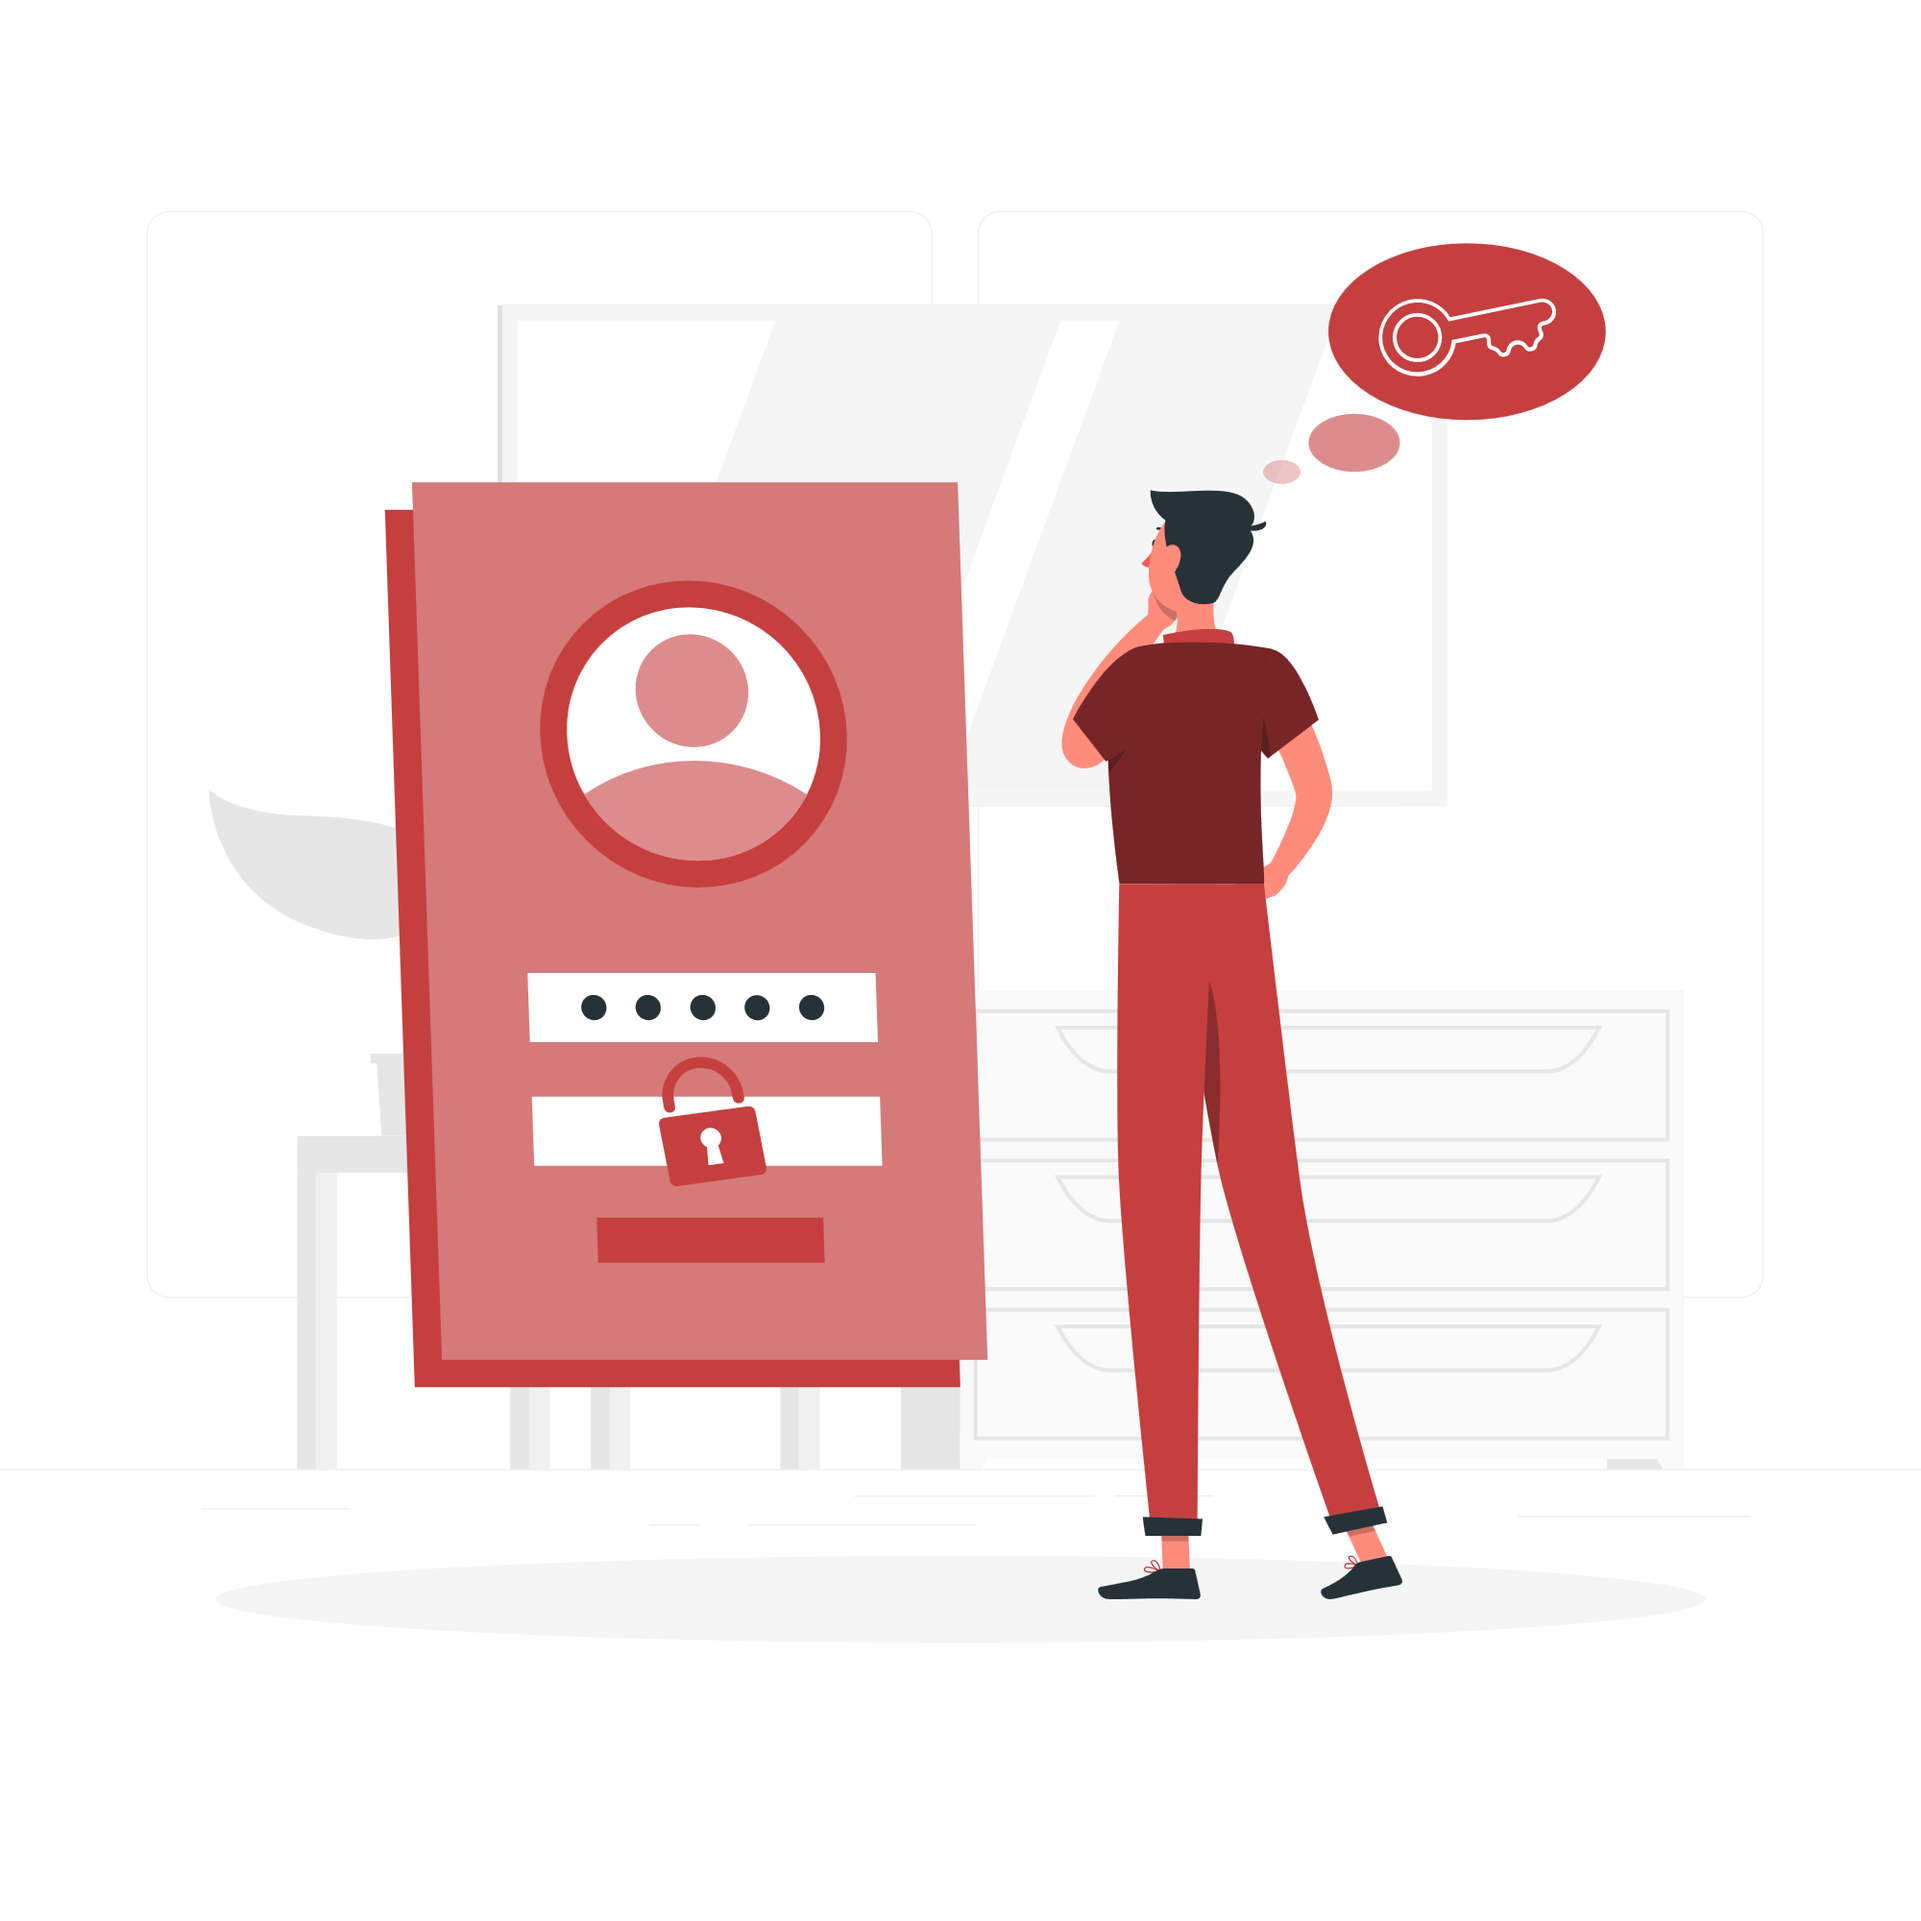
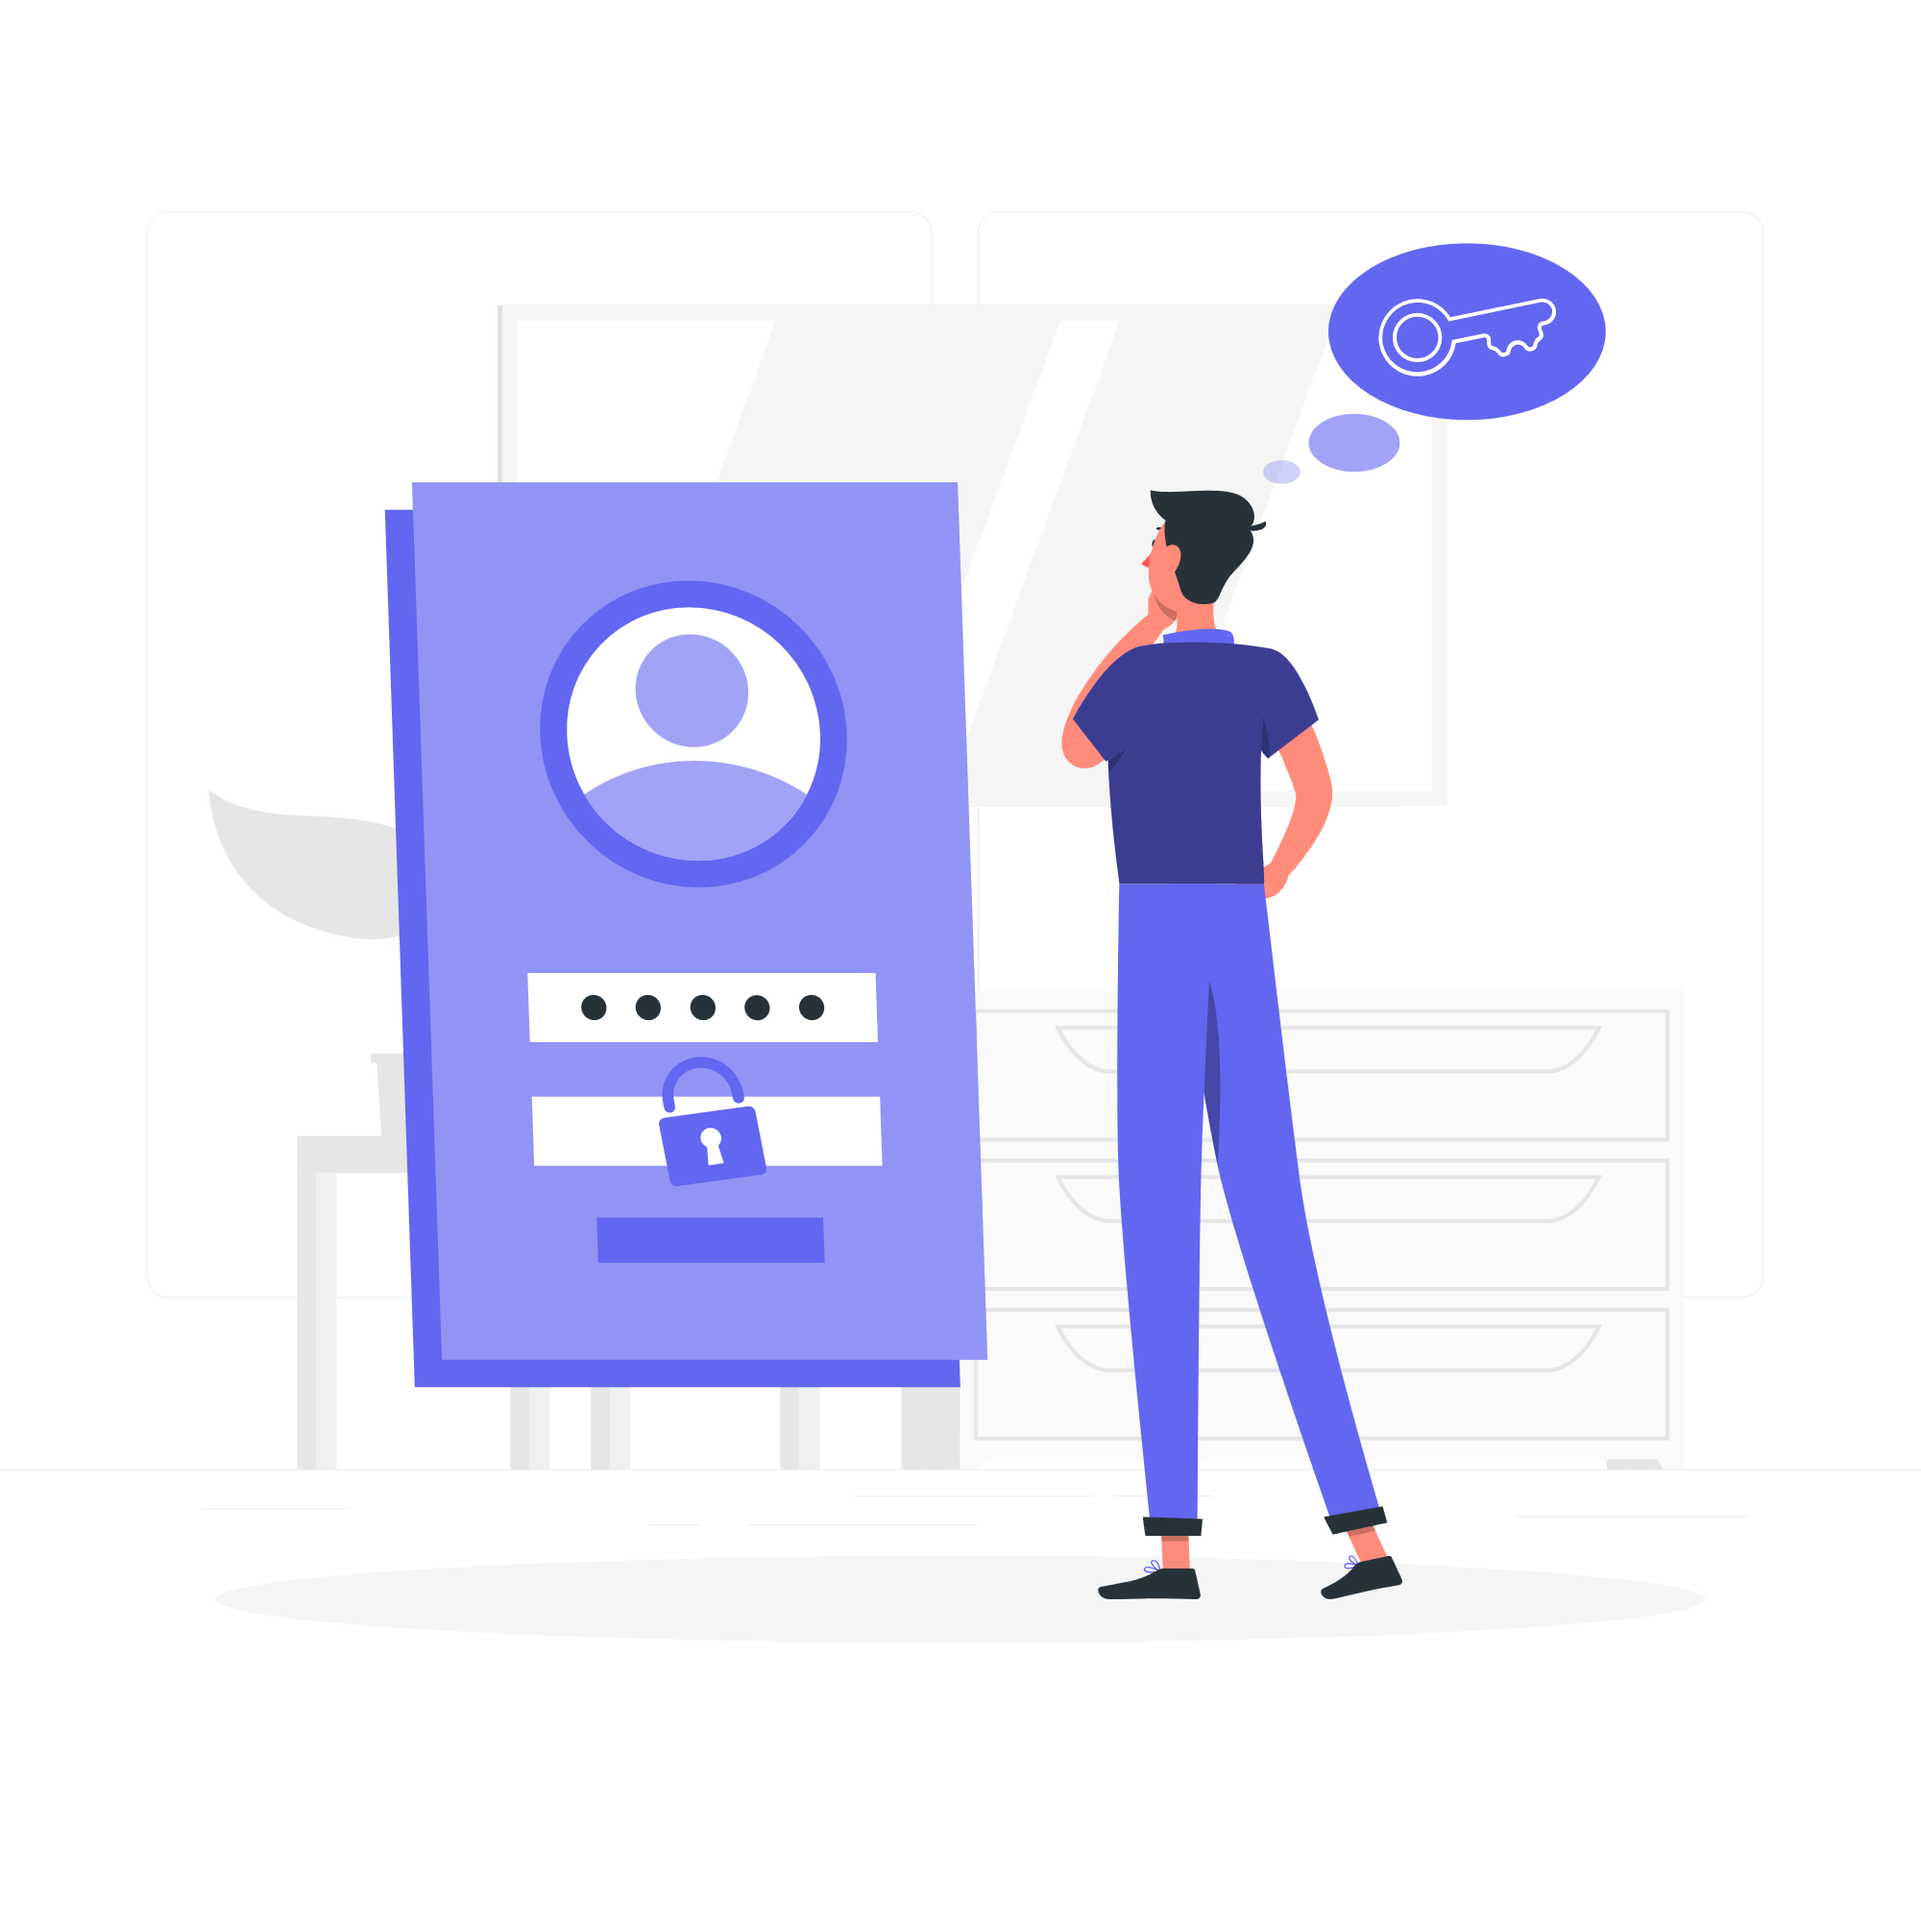
fix: change signup and signin page styles

Changed region(s): [[0.186, 0.248, 0.527, 0.744], [0.558, 0.31, 0.713, 0.806], [0.651, 0.124, 0.837, 0.248]]

diff --git a/src/components/module/SigninForm.jsx b/src/components/module/SigninForm.jsx
@@ -15,10 +15,10 @@ function SigninForm({
     <>
       <form
         onSubmit={handleSubmit}
-        className="w-full flex flex-col items-center justify-start gap-3"
+        className="w-full flex flex-col items-center justify-start gap-4"
       >
-        <div className="w-3/4 h-[38px] sm:h-[42px] px-4 py-2 rounded-lg bg-surface flex items-center justify-start gap-2 text-icon ">
-          <Mail />
+        <div className="w-3/4 h-[38px] sm:h-[42px] px-4 py-2 rounded-lg bg-white flex items-center justify-start gap-2 text-icon ">
+          <Mail className="text-primary" />
           <input
             type="email"
             name="email"
@@ -26,12 +26,12 @@ function SigninForm({
             onChange={handleChangeValue}
             placeholder="ایمیل"
             required
-            className="w-full"
+            className="w-full placeholder:text-icon"
           />
         </div>
 
-        <div className="w-3/4 h-[38px] sm:h-[42px] px-4 py-2 rounded-lg bg-surface flex items-center justify-start gap-2 text-icon">
-          <Lock />
+        <div className="w-3/4 h-[38px] sm:h-[42px] px-4 py-2 rounded-lg bg-white flex items-center justify-start gap-2 text-icon">
+          <Lock className="text-primary" />
           <input
             type={isShowPassword ? "text" : "password"}
             name="password"
@@ -39,7 +39,7 @@ function SigninForm({
             onChange={handleChangeValue}
             placeholder="رمز عبور"
             required
-            className="w-full"
+            className="w-full placeholder:text-icon"
           />
 
           {isShowPassword ? (

diff --git a/src/components/templates/SignupPage.jsx b/src/components/templates/SignupPage.jsx
@@ -61,16 +61,18 @@ function SignupPage() {
 
   return (
     <>
+      <div className="w-full h-full inset-0 absolute bg-primary/10 -z-10"></div>
+
       <div className="w-full max-w-2xl flex flex-col items-center justify-start gap-8 mx-auto p-2">
         <div className="w-full flex items-center justify-start">
           <span
             onClick={() => router.back()}
-            className="p-2 text-icon bg-surface rounded-lg cursor-pointer"
+            className="p-2 text-icon rounded-lg cursor-pointer"
           >
             <ArrowRight />
           </span>
         </div>
-        <p className="w-full text-center text-primary font-medium">
+        <p className="w-full text-center text-primary font-semibold text-xl">
           ثبت نام در کویرنیوز
         </p>
 

diff --git a/src/components/templates/SigninPage.jsx b/src/components/templates/SigninPage.jsx
@@ -56,17 +56,19 @@ function SigninPage() {
 
   return (
     <>
+      <div className="w-full h-full inset-0 absolute -z-10 bg-primary/10"></div>
+
       <div className="w-full max-w-2xl flex flex-col items-center justify-start gap-8 mx-auto p-2">
         <div className="w-full flex items-center justify-start">
           <span
             onClick={() => router.back()}
-            className="p-2 text-icon bg-surface rounded-lg cursor-pointer"
+            className="p-2 text-icon rounded-lg cursor-pointer"
           >
             <ArrowRight />
           </span>
         </div>
 
-        <p className="w-full text-center text-primary font-medium">
+        <p className="w-full text-center text-primary font-semibold text-xl">
           ورود به حساب
         </p>
 
